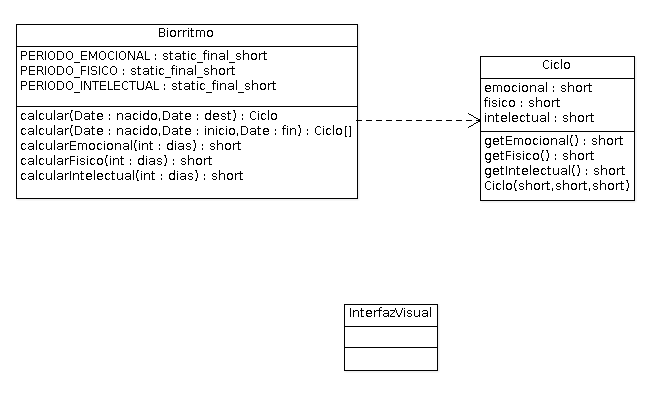
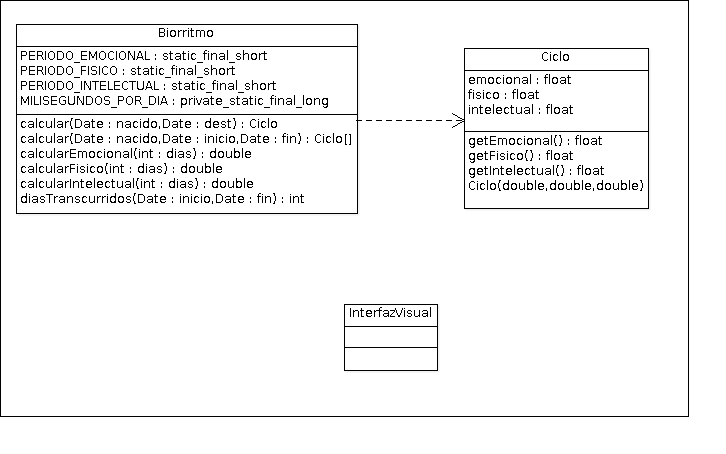
Cambio atributos y métodos

diff --git a/Ritmubi/src/com/ritmubi/Biorritmo.java b/Ritmubi/src/com/ritmubi/Biorritmo.java
@@ -5,15 +5,57 @@ import java.util.Date;
 public class Biorritmo {
 
 	public static final short 
-			FRECUENCIA_EMOCIONAL 	= 23,
-			FRECUENCIA_FISICA	 	= 28,
+			FRECUENCIA_EMOCIONAL 	= 28,
+			FRECUENCIA_FISICA	 	= 23,
 			FRECUENCIA_INTELECTUAL	= 33;
 	
-	public Ciclo calcular(Date nacimiento, Date fecha) {
+	private static final long 
+			MILISEGUNDOS_POR_DIA = 24 * 60 * 60 * 1000;  
+	
+	/**
+	 * Calcula el biorritmo para una fecha puntual
+	 * @param nacimiento Fecha de nacimiento
+	 * @param fecha Fecha para la cual se desea realizar el calculo
+	 * @return
+	 */
+	public static Ciclo calcular(Date nacimiento, Date fecha) {
+		int dias = diasTranscurridos(nacimiento, fecha);
+		Ciclo ciclo = new Ciclo(
+				calcularEmocional(dias),
+				calcularFisico(dias),
+				calcularIntelectual(dias)
+		);
 		
+		return ciclo;		
 	}
 	
-	public Ciclo calcular(Date nacimiento, Date inicio, Date fin) {
+	/**
+	 * Calcula el biorritmo para un rango de fechas.
+	 * @param nacimiento Fecha de nacimiento
+	 * @param inicio Fecha de inicio
+	 * @param fin Fecha de término
+	 * @return
+	 */
+	public static Ciclo calcular(Date nacimiento, Date inicio, Date fin) {
 		
+	}
+
+	private static double calcularEmocional(int dias) {
+		return Math.sin(2*Math.PI*dias / FRECUENCIA_EMOCIONAL);
+	}
+	
+	private static double calcularFisico(int dias) {
+		return Math.sin(2*Math.PI*dias / FRECUENCIA_FISICA);
+	}
+	
+	private static double calcularIntelectual(int dias) {
+		return Math.sin(2*Math.PI*dias / FRECUENCIA_INTELECTUAL);
+	}
+	
+	private static int diasTranscurridos(Date inicio, Date fin) {
+		if( inicio.compareTo(fin) <= 0 )
+			throw new IllegalArgumentException("Fecha termino menor o igual que fecha inicio");
+			
+		return (int) ((inicio.getTime() - fin.getTime()) / MILISEGUNDOS_POR_DIA);
 	}
 }

diff --git a/Ritmubi/src/com/ritmubi/Ciclo.java b/Ritmubi/src/com/ritmubi/Ciclo.java
@@ -2,26 +2,33 @@ package com.ritmubi;
 
 public class Ciclo {
 
-	private short 
+	private float 
 		emocional,
 		fisico,
 		intelectual;
-	
-	public Ciclo(short emocional, short fisico, short intelectual) {
-		this.emocional = emocional;
-		this.fisico = fisico;
-		this.intelectual = intelectual;
+
+	/**
+	 * Crea una nueva instancia de la clase Ciclo.
+	 * Un Objeto de tipo ciclo contiene los estados emocional, fisico e intelectual  
+	 * @param emocional
+	 * @param fisico
+	 * @param intelectual
+	 */
+	public Ciclo(double emocional, double fisico, double intelectual) {
+		this.emocional = (float) emocional;
+		this.fisico = (float) fisico;
+		this.intelectual = (float) intelectual;
 	}
 
-	public short getEmocional() {
+	public float getEmocional() {
 		return emocional;
 	}
 
-	public short getFisico() {
+	public float getFisico() {
 		return fisico;
 	}
 
-	public short getIntelectual() {
+	public float getIntelectual() {
 		return intelectual;
 	}
 }
